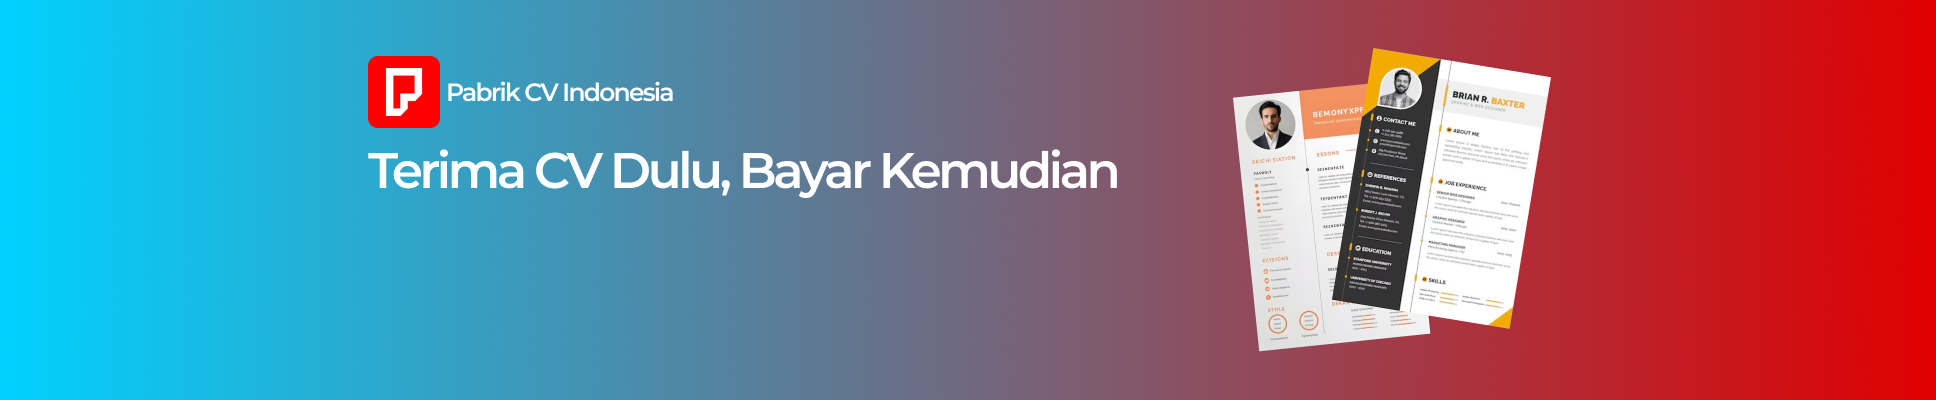
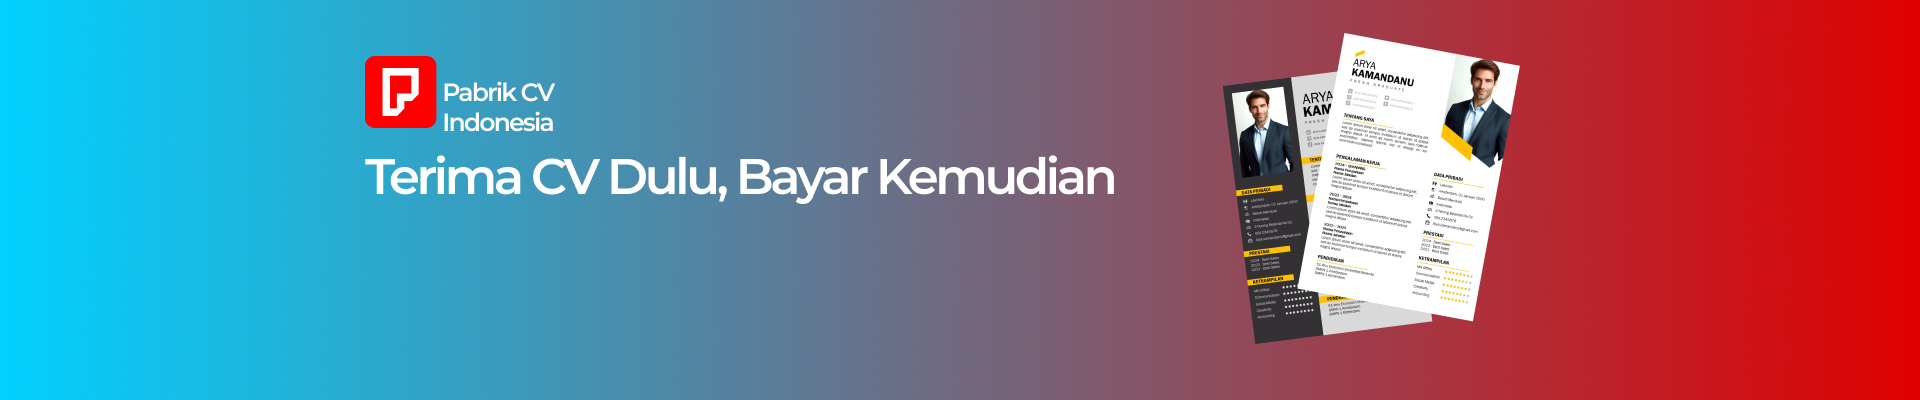
perbarui cv

Changed region(s): [[0.625, 0.09, 0.8125, 0.87], [0.1875, 0.36, 0.5938, 0.51], [0.2188, 0.21, 0.3438, 0.33]]

diff --git a/resources/js/Pages/home.jsx b/resources/js/Pages/home.jsx
@@ -332,8 +332,8 @@ function Homepage() {
         </div>
 
         {/* Right Section: CV Preview */}
-        <div className='lg:w-1/2 w-full flex justify-center lg:justify-end mt-8 lg:mt-0'>
-          <img src='images/sample1.jpg' className='w-4/5 sm:w-3/4 lg:w-2/3' alt="CV Preview" />
+        <div className='lg:w-1/2 w-full h-full flex justify-center lg:justify-center mt-8 lg:mt-0'>
+          <img src='images/CVS.png' className='w-4/5 sm:w-3/4 lg:w-2/3' alt="CV Preview" />
         </div>
       </div>
     </div>
